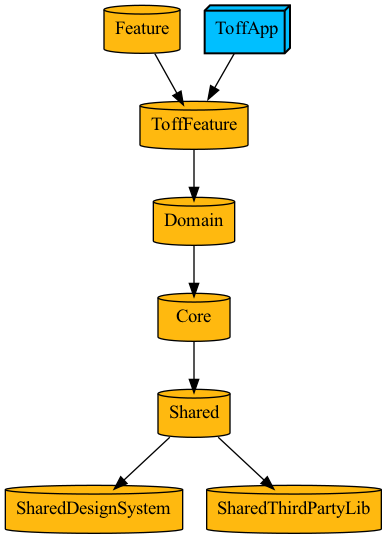
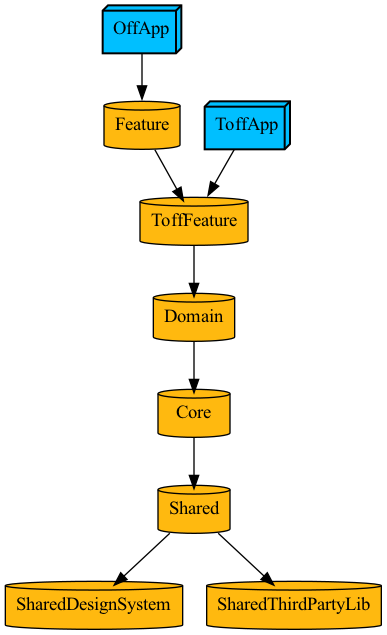
feat: off app target 추가

Changed region(s): [[0.0, 0.0, 0.9922, 1.0]]

diff --git a/Offs/Projects/App/Project.swift b/Offs/Projects/App/Project.swift
@@ -9,6 +9,19 @@ import ProjectDescription
 import ProjectDescriptionHelpers
 import OffsPlugin
 
+let offAppTarget = Target(
+    name: "OffApp",
+    destinations: [.iPhone, .iPad],
+    product: .app,
+    bundleId: "off.app",
+    deploymentTargets: .iOS("17.0"),
+    infoPlist: .default,
+    dependencies: [
+        .project(target: "Feature", path: .relativeToRoot("Projects/Feature")),
+    ],
+    settings: nil
+)
+
 let toffAppTarget = Target(
     name: "ToffApp",
     destinations: [.iPhone, .iPad],
@@ -30,6 +43,7 @@ let project = Project(
     packages: [],
     settings: nil,
     targets: [
+        offAppTarget,
         toffAppTarget
     ]
 )
